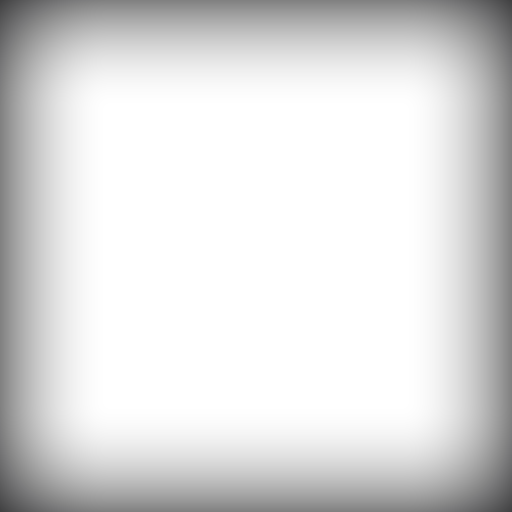
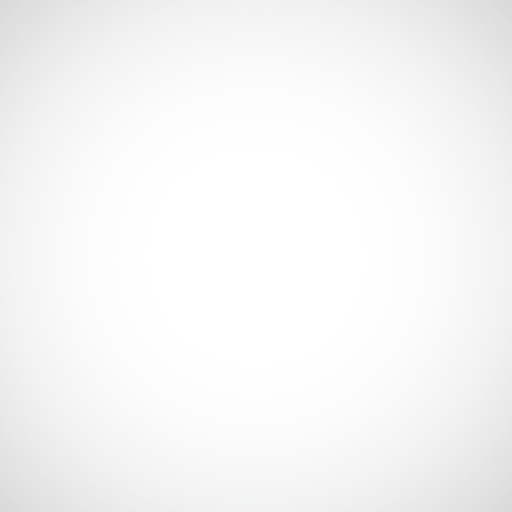
style

diff --git a/app/assets/stylesheets/responsive/styles.css b/app/assets/stylesheets/responsive/styles.css
@@ -18,16 +18,17 @@ img {
 /*main structure*/
 html {
 	font-size: 100%;
-	background: #f2594b;
+	background: #d4d8dd;
 }
 
 body {
 	font: 0.875em/1.5em Arial, sans-serif; /*base font-size of 14px (14/16 - lineheight based on 21px 1.5x14)*/
-	color: #201e1e;
+	color: #848585;
 }
 
 a {
-	color: #fff;	
+	color: #848585;
+    font-weight: bold;
 }
 
 a:hover {
@@ -38,8 +39,9 @@ p {
 	margin: 0 0 1.5em 0;
 }
 
-ol, ul {
+ol, ul, li {
 	padding: 0;
+    list-style: none;
 }
 
 h1, h2, h3 {
@@ -84,75 +86,46 @@ footer {
 	float: left;
 	width: 100%;
 	padding: 1.5em 4%;
-
-	/*just to pretty things up while we're demoing*/
-	-webkit-transition: all 0.4s ease-out;
-	-moz-transition: all 0.4s ease-out;
-	-o-transition: all 0.4s ease-out;
-	-ms-transition: all 0.4s ease-out;
-	transition: all 0.4s ease-out;
 }
 
 header {
-	background: #63a69f;
-    height: 10%;
+	background: #fcffff;
+    height: 15%;
     padding: 0 3% !important;
 }
 
-nav.primary {
-	background: #f2e1ac;
-}
-
 section.content {
-	background: #f2836b;
+	background: #fcffff;
 }
 
-aside {
-	background: #f2594b;
+.voting > div {
+    width: 50%;
 }
-
-footer {
-	background: #cd2c24;
-}
-
-/*articles*/
-article {
-	padding: 0 0 1.5em;
-	margin: 0 0 2.5em;
-	border-bottom: 1px solid #e57057;
-}
-
-/*footer navs*/
-footer nav {
-	width: 100%;
-}
-
-footer nav ul li a {
-	display: block;
-	text-decoration: none;
-	border-bottom: 1px solid #f2594b;
-}
-
-footer nav ul li:last-child a {
-	border: none;
-}
-
-footer nav ul li a:hover {
-	background: #f2594b;
-	padding: 0 1em;
-}
-
-
-
 
 	/* -------------- media queries*/
 	
 	/* Up to Mobile Landscape Size */
-	@media only screen and (max-width: 479px) {}
+	@media only screen and (max-width: 479px) {
+        section.content div label, section.content li label {
+            text-align: left;
+        }
+
+        section.content input {
+            width: 100%;
+        }
+
+        section.content input[type="checkbox"] {
+            width: auto;
+        }
+    }
 
 	/* Upwards of Mobile Landscape Size  */
 	@media only screen and (min-width: 480px) {
-		
+
+        nav.primary {
+            border-bottom: 1px solid #d4d8dd;
+        }
+
 		nav.primary select {
 			display: none;
 		}
@@ -180,7 +153,7 @@ footer nav ul li a:hover {
         }
 
         nav.primary ul li a p {
-            margin: -4% 0 0 !important;
+            margin: -2% 0 0 !important;
         }
 
         nav.primary ul li:first-child {
@@ -195,18 +168,23 @@ footer nav ul li a:hover {
 			font-weight: bold;
             width: 100%;
 		}
-		
+
 		nav.primary ul li a:hover {
 			background: #424242;
 			cursor: pointer;
 		}
-		
+
 		nav.primary ul li span {
 			display: none;
 		}
 
-        .voting > div {
-            width: 50%;
+        section.content label {
+            width: 160px;
+        }
+
+        .ml-160, #error_explanation {
+            clear: both;
+            margin-left: 160px;
         }
 
     }
@@ -271,10 +249,6 @@ footer nav ul li a:hover {
             width: 47%;
         }
 
-        nav.primary.login ul li {
-            width: 100%;
-        }
-
         section.content {
             width: 100%;
         }
@@ -299,13 +273,28 @@ footer nav ul li a:hover {
 		body {
 			font: 1em/1.5em Arial, sans-serif; /*time to make things a wee bit bigger*/
 		}
+
+        header {
+            border-bottom: 1px solid #00b0bc;
+        }
+        header .shadow {
+            background-image: asset-url('shadow.png', images);
+            background-position: center top;
+            background-repeat: no-repeat;
+            background-size: 100% auto;
+            clear: both;
+            height: 30px;
+            position: absolute;
+            top: 14.9%;
+            width: 94%;
+        }
 		
 		footer {
 			width: 15%;
 		}
 
 		nav.primary {
-            height: 90%;
+            height: 85%;
 			width: 15%;
 		}
 		
@@ -315,6 +304,10 @@ footer nav ul li a:hover {
             margin-left: 0;
             margin-top: 4%;
             max-height: 100%;
+            width: 100%;
+        }
+
+        nav.primary.login ul li {
             width: 100%;
         }
 
@@ -330,6 +323,16 @@ footer nav ul li a:hover {
 
         section.content {
             width: 70%;
+        }
+
+        section.content, footer {
+            height: 85%;
+        }
+        section.content label {
+            width: 240px;
+        }
+        .ml-160, #error_explanation {
+            margin-left: 240px;
         }
 		
 	}

diff --git a/app/assets/stylesheets/layout.scss b/app/assets/stylesheets/layout.scss
@@ -24,8 +24,10 @@ h1 {
 }
 
 h2 {
+  color: #00b0bc;
   font-family: 'BebasNeueRegular', Helvetica, Arial, sans-serif;
   font-size: 300%;
+  line-height: 100%;
 }
 
 .wrapper {
@@ -38,6 +40,13 @@ header {
     display: table-cell;
     vertical-align: middle;
   }
+}
+
+.flash {
+  background: #00b0bc;
+  color: #fff;
+  display: inline-block;
+  padding: 8px;
 }
 
 nav.primary {
@@ -54,7 +63,7 @@ nav.primary {
         padding: 0;
         text-align: center;
         p {
-          color: #000000;
+          color: #00b0bc;
           display: none;
           font-family: 'BebasNeueRegular', Helvetica, Arial, sans-serif;
           font-size: 200%;
@@ -90,9 +99,6 @@ nav.primary {
     #menu_logout_link {
       background-image: asset-url('logout.png', image);
     }
-  }
-  &.login ul li {
-    height: 50%;
   }
 }
 
@@ -151,5 +157,70 @@ nav.primary {
       background-position: 50% 35%;
       background-size: 80%;
     }
+    div {
+      border: 1px solid #fff;
+    }
+  }
+}
+
+ul.readme li:before {
+  color: #00b0bc;
+  content: "\2022";
+}
+
+section.content {
+  label {
+    display: block;
+    float: left;
+    padding: 3px 10px 0 0;
+    text-align: right;
+  }
+  #user_remember_me {
+    float: left;
+    margin: 6px 6px 20px 0;
+  }
+  [for="user_remember_me"] {
+    float: none;
+    text-align: left;
+  }
+  input, button {
+    background: #00b0bc;
+    border: none;
+    color: white;
+    line-height: normal;
+    margin-bottom: 20px;
+    padding: 5px;
+  }
+  button, input[type="submit"] {
+    font-family: 'BebasNeueRegular', Helvetica, Arial, sans-serif;
+    font-size: 24px;
+    padding: 10px;
+    &:hover {
+      background: transparent;
+      color: #00b0bc;
+    }
+  }
+}
+
+footer {
+  font-size: 87.5%;
+  a {
+    color: #00b0bc;
+  }
+}
+
+#error_explanation {
+  background: #00b0bc;
+  color: #fff;
+  margin-bottom: 30px;
+  padding: 8px;
+  h2 {
+    color: #fff;
+    font-size: 24px;
+    margin: 0 0 10px;
+  }
+  ul {
+    margin: 0;
+     padding-left: 0;
   }
 }

diff --git a/app/controllers/user/answers_controller.rb b/app/controllers/user/answers_controller.rb
@@ -17,7 +17,7 @@ class User::AnswersController < User::UserController
     @answer.update_attributes(params[:answer])
     @answer.date = Date.today
     if @answer.save
-      flash[:message] = "You answer has been changed."
+      flash[:message] = "Your answer has been changed."
       redirect_to user_root_path
     else
       flash[:error] = "Something went wrong..."
@@ -30,7 +30,7 @@ class User::AnswersController < User::UserController
     data_table.new_column('string', 'Day')
     data_table.new_column('number', 'Happiness', (0..3))
     data_table.add_rows(current_user.answers.limit(30).order("date desc").reverse.map { |a| [a.date.to_s, a.result] })
-    option = {height: 400, title: 'Your last 30 days', vAxis: { viewWindow: {min: 0, max: 3}, :format => "#", gridlines: {count: 4}}}
+    option = {height: 400, colors: ['#00b0bc'], backgroundColor: '#fcffff', title: 'Your last 30 days', vAxis: { viewWindow: {min: 0, max: 3}, :format => "#", gridlines: {count: 4}}}
     @chart = GoogleVisualr::Interactive::AreaChart.new(data_table, option)
   end
 
